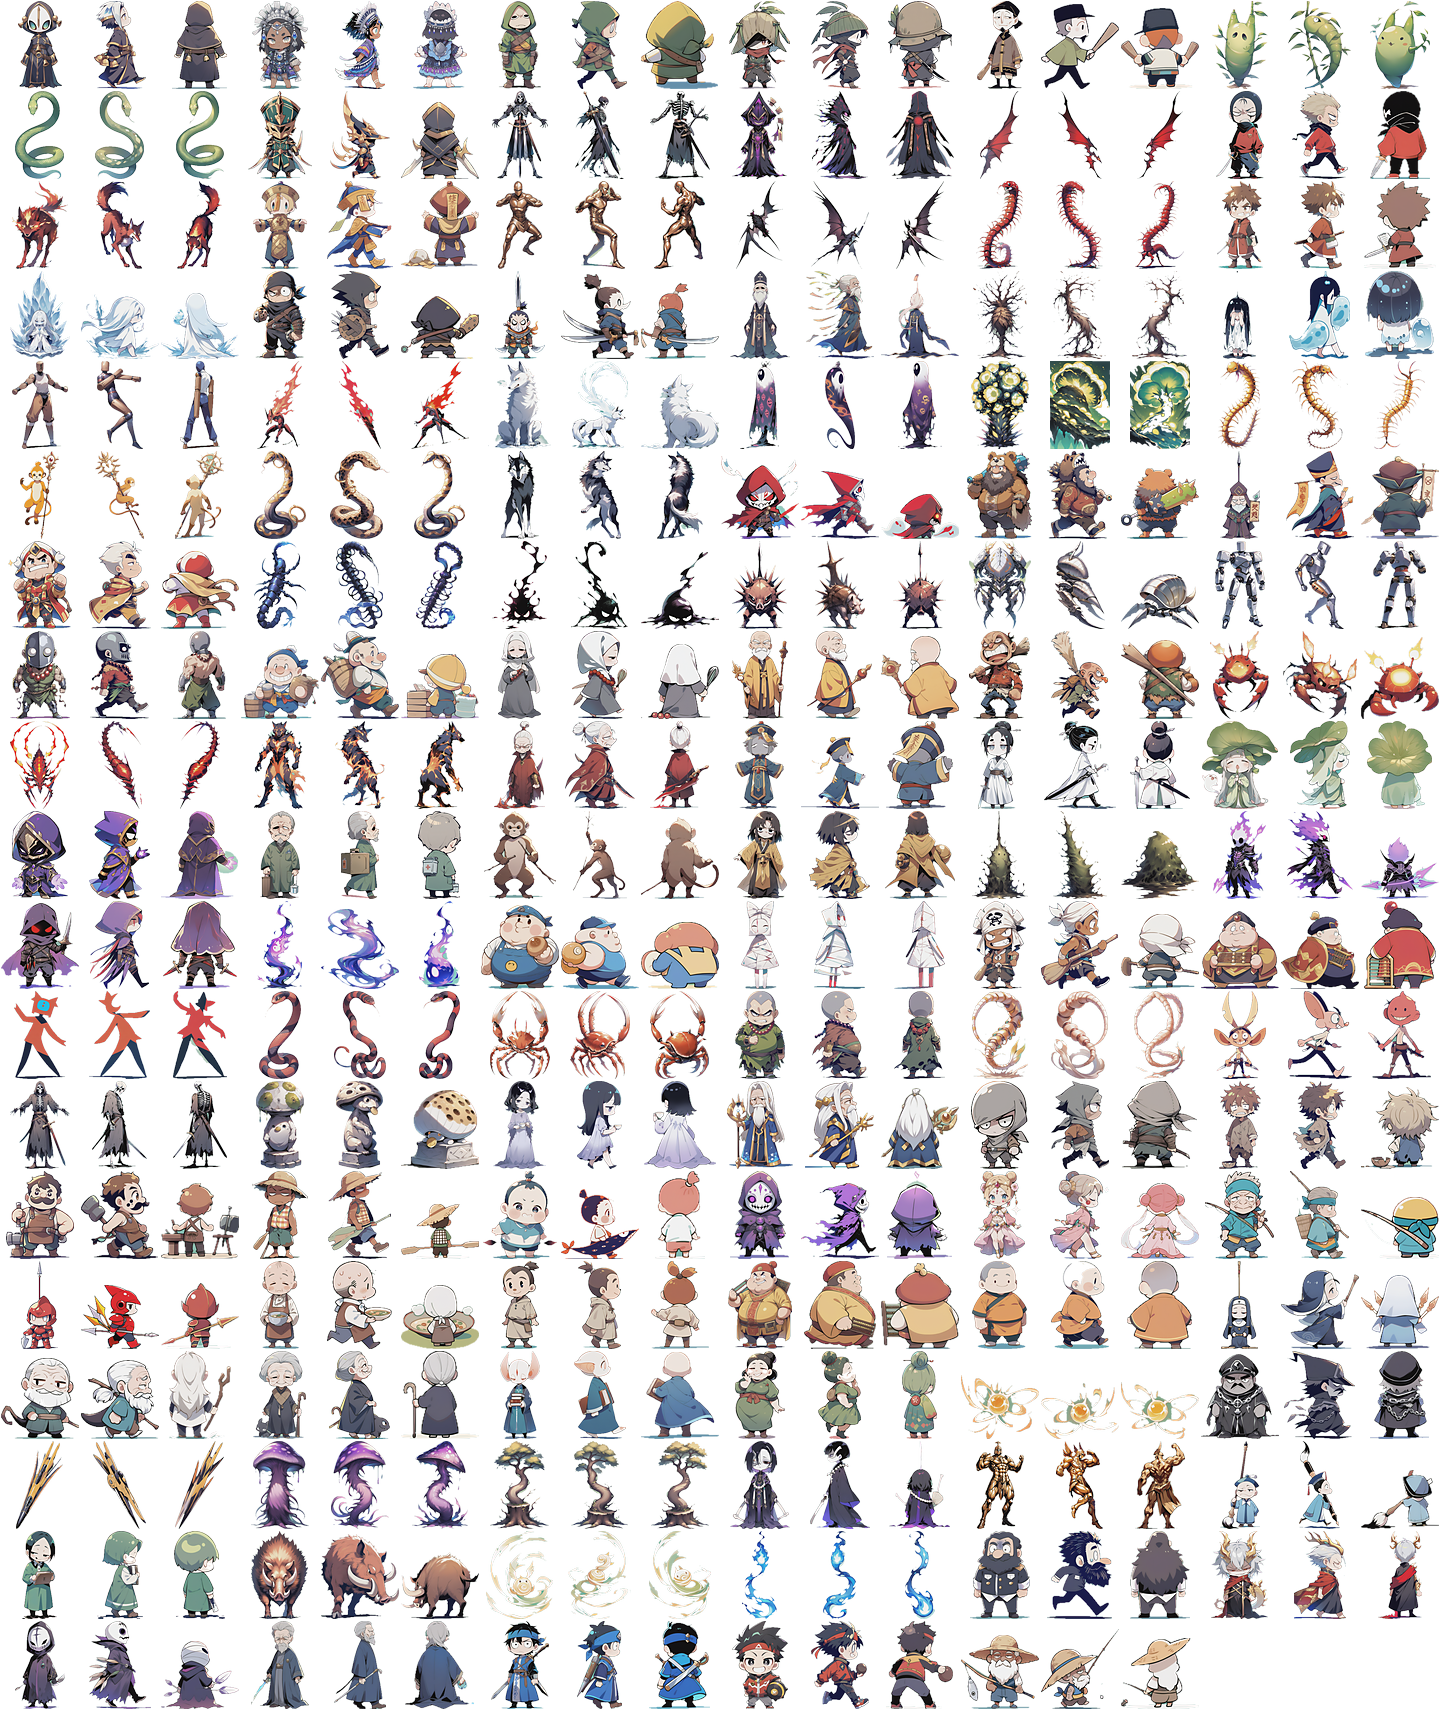
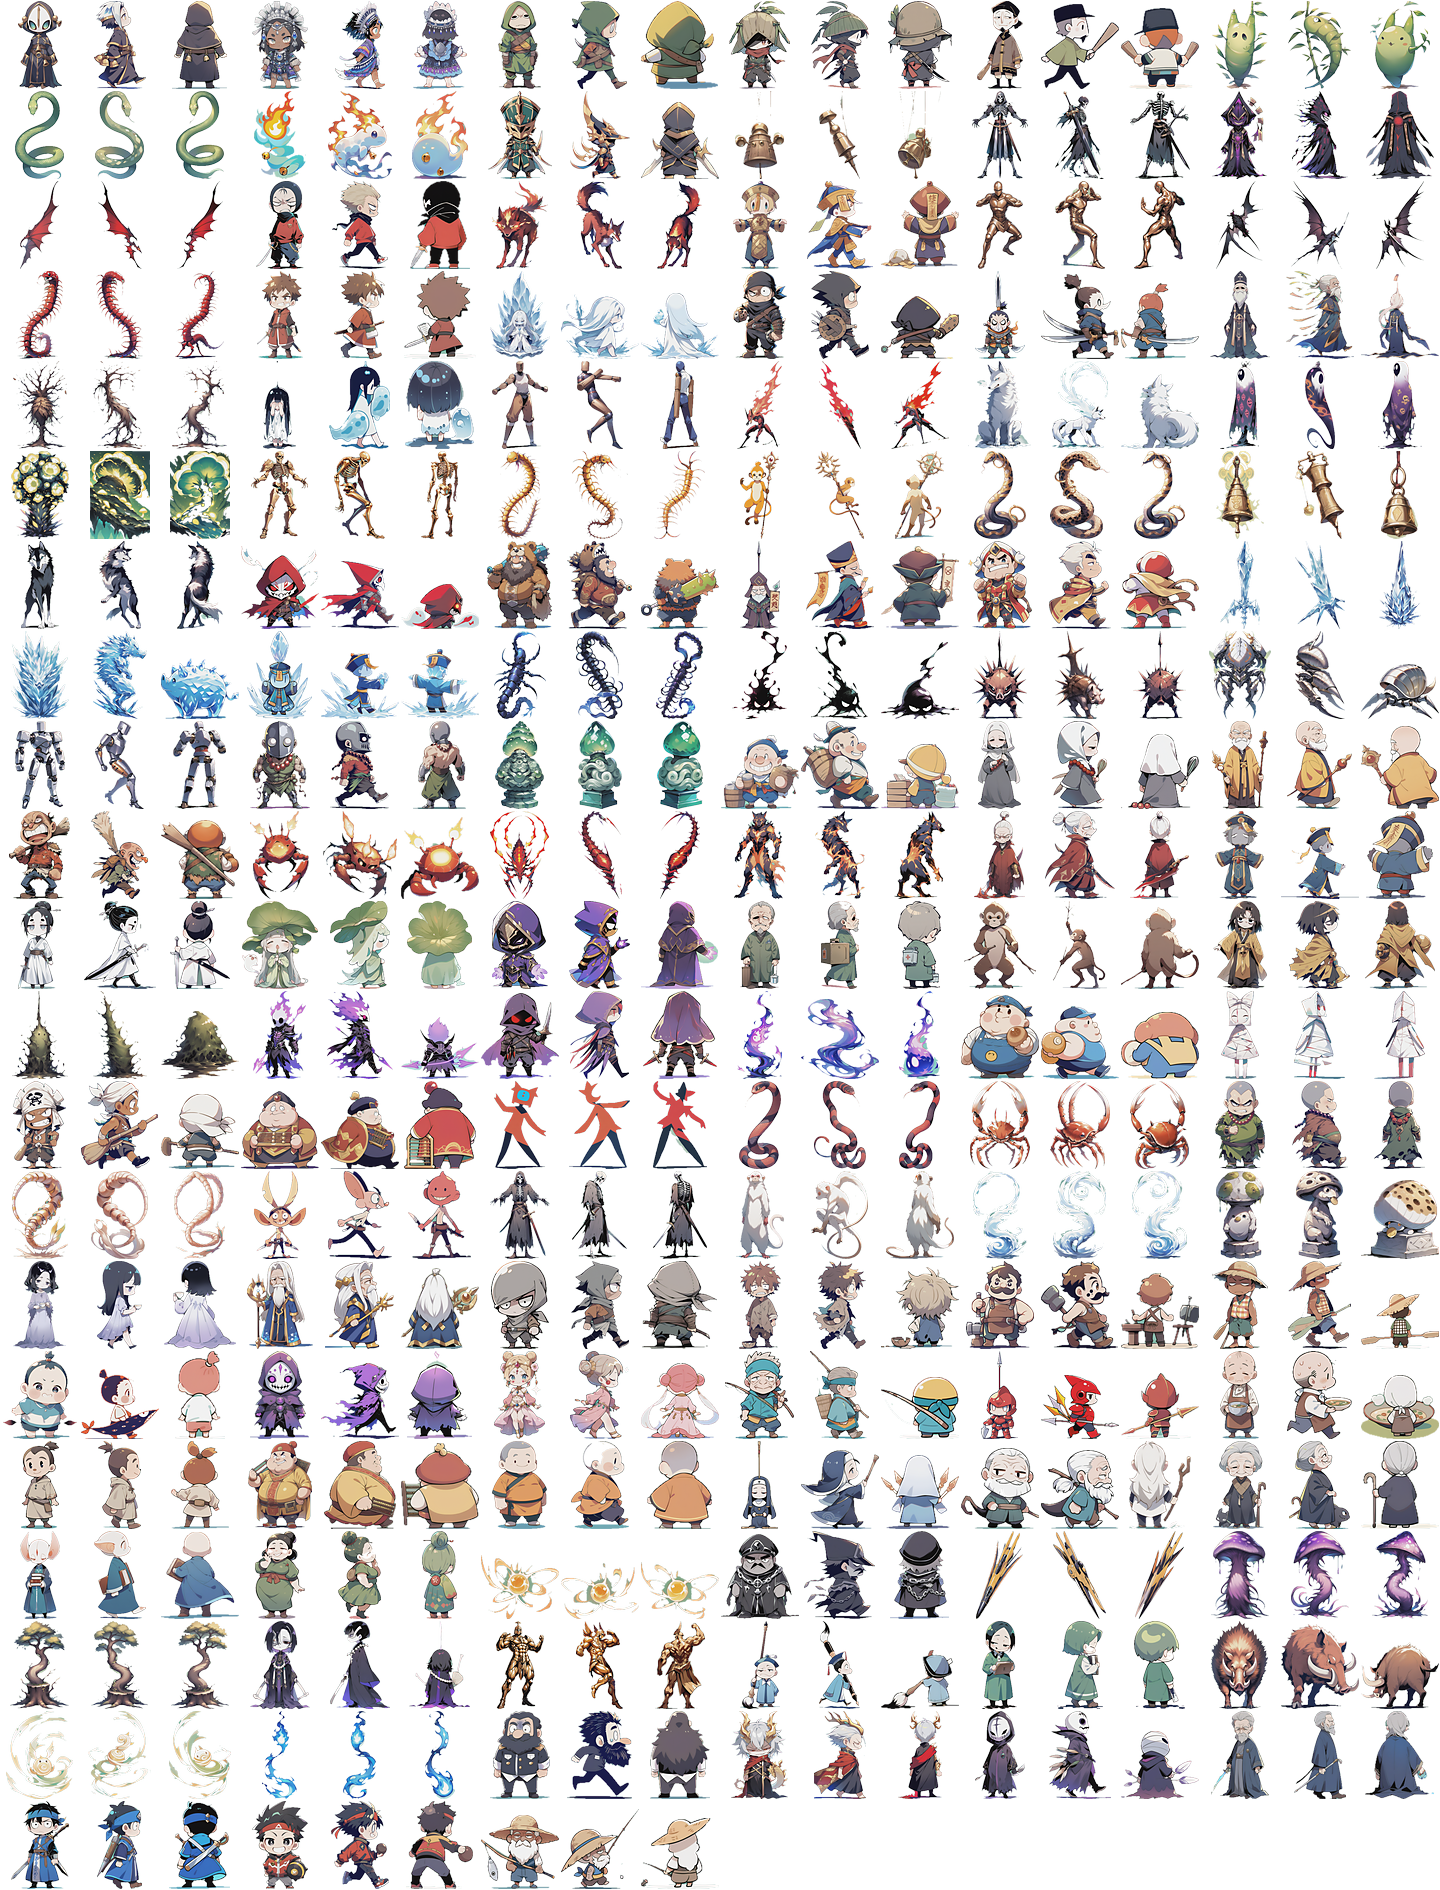
Detailed map sprites: icebat,snowmonkey,snowsprite,iceboar,icejiangshi,bellfire,bellpuppet,goldbone,jadetoad,greatbell

diff --git a/js/ai_art.js b/js/ai_art.js
@@ -1,2 +1,2 @@
 // Made by tools/ai_pack.py from the AI-painted art: rects into assets/ai/. Do not edit by hand.
-export const AI = {"acolyte":{"p":[0,0],"c":[0,0]},"aman":{"p":[128,0],"s":[0,0],"c":[240,0]},"ape":{"p":[256,0]},"archer":{"p":[384,0],"s":[192,0],"c":[480,0]},"assassin":{"p":[512,0],"s":[384,0],"c":[720,0]},"baixian":{"p":[640,0],"c":[960,0]},"bamboosprite":{"p":[768,0],"c":[1200,0]},"bambooviper":{"p":[896,0],"s":[576,0],"c":[0,90]},"bellfire":{"p":[1024,0]},"bellguard":{"p":[1152,0],"c":[240,90]},"bellpuppet":{"p":[1280,0]},"blackbone":{"p":[1408,0],"s":[768,0],"c":[480,90]},"blackdaoist":{"p":[1536,0],"c":[720,90]},"bloodbat":{"p":[0,128],"s":[960,0],"c":[960,90]},"bloodthug":{"p":[128,128],"s":[0,88],"c":[1200,90]},"bloodwolf":{"p":[256,128],"s":[192,88],"c":[0,180]},"bronzejiangshi":{"p":[384,128],"s":[384,88],"c":[240,180]},"bronzeman":{"p":[512,128],"s":[576,88],"c":[480,180]},"cavebat":{"p":[640,128],"s":[768,88],"c":[720,180]},"centipede":{"p":[768,128],"s":[960,88],"c":[960,180]},"chengyuanzhi":{"p":[896,128]},"chutiankuo":{"p":[1024,128],"s":[0,176],"c":[1200,180]},"coldpool":{"p":[1152,128],"s":[192,176],"c":[0,270]},"crow":{"p":[1280,128]},"cudgeler":{"p":[1408,128],"s":[384,176],"c":[240,270]},"daoba":{"p":[1536,128],"s":[576,176],"c":[480,270]},"daoist":{"p":[0,256],"s":[768,176],"c":[720,270]},"deadwood":{"p":[128,256],"s":[960,176],"c":[960,270]},"drowned":{"p":[256,256],"s":[0,264],"c":[1200,270]},"dummy":{"p":[384,256],"c":[0,360]},"erin":{"p":[512,256]},"firehornet":{"p":[640,256],"c":[240,360]},"fox":{"p":[768,256]},"frostwolf":{"p":[896,256],"s":[192,264],"c":[480,360]},"ghosthornet":{"p":[1024,256],"s":[384,264],"c":[720,360]},"glowcap":{"p":[1152,256],"c":[960,360]},"goldbone":{"p":[1280,256]},"goldcentipede":{"p":[1408,256],"s":[576,264],"c":[1200,360]},"goldmonkey":{"p":[1536,256],"s":[768,264],"c":[0,450]},"goldsnake":{"p":[0,384],"c":[240,450]},"greatbell":{"p":[128,384]},"greywolf":{"p":[256,384],"s":[960,264],"c":[480,450]},"guanyu":{"p":[384,384]},"guimian":{"p":[512,384],"s":[0,352],"c":[720,450]},"heixiong":{"p":[640,384],"c":[960,450]},"huaxiong":{"p":[768,384]},"hubanxian":{"p":[896,384],"s":[192,352],"c":[1200,450]},"huotianxia":{"p":[1024,384],"s":[384,352],"c":[0,540]},"icebat":{"p":[1152,384]},"iceboar":{"p":[1280,384]},"icejiangshi":{"p":[1408,384]},"inkscorpion":{"p":[1536,384],"s":[576,352],"c":[240,540]},"inkspirit":{"p":[0,512],"s":[768,352],"c":[480,540]},"ironboar":{"p":[128,512],"s":[960,352],"c":[720,540]},"ironcrab":{"p":[256,512],"c":[960,540]},"irondummy":{"p":[384,512],"c":[1200,540]},"ironmonk":{"p":[512,512],"s":[0,440],"c":[0,630]},"jadetoad":{"p":[640,512]},"jasper":{"p":[768,512]},"jeff":{"p":[896,512]},"jiabafang":{"p":[1024,512],"s":[192,440],"c":[240,630]},"jiangshi":{"p":[1152,512]},"jiao":{"p":[1280,512]},"jiling":{"p":[1408,512]},"jingci":{"p":[1536,512],"c":[480,630]},"josh":{"p":[0,640]},"kuchan":{"p":[128,640],"s":[384,440],"c":[720,630]},"lackey":{"p":[256,640],"s":[576,440],"c":[960,630]},"lavacrab":{"p":[384,640],"c":[1200,630]},"lavascorpion":{"p":[512,640],"c":[0,720]},"lavawolf":{"p":[640,640],"c":[240,720]},"lihanshan":{"p":[768,640],"s":[768,440],"c":[480,720]},"lion":{"p":[896,640]},"littlejiangshi":{"p":[1024,640],"s":[960,440],"c":[720,720]},"liuhanyan":{"p":[1152,640],"c":[960,720]},"lotusghost":{"p":[1280,640],"c":[1200,720]},"lubu":{"p":[1408,640]},"masked":{"p":[1536,640],"s":[0,528],"c":[0,810]},"mojide":{"p":[0,768],"s":[192,528],"c":[240,810]},"mountainmonkey":{"p":[128,768],"s":[384,528],"c":[480,810]},"mowuya":{"p":[256,768],"s":[576,528],"c":[720,810]},"mudspirit":{"p":[384,768],"c":[960,810]},"netherarcher":{"p":[512,768],"s":[768,528],"c":[1200,810]},"netherassassin":{"p":[640,768],"c":[0,900]},"netherflame":{"p":[768,768],"s":[960,528],"c":[240,900]},"niubaobao":{"p":[896,768],"s":[0,616],"c":[480,900]},"papereffigy":{"p":[1024,768],"c":[720,900]},"pirate":{"p":[1152,768],"c":[960,900]},"qianwanli":{"p":[1280,768],"c":[1200,900]},"redpaper":{"p":[1408,768],"c":[0,990]},"redsnake":{"p":[1536,768],"s":[192,616],"c":[240,990]},"rivercrab":{"p":[0,896],"s":[384,616],"c":[480,990]},"roguemonk":{"p":[128,896],"c":[720,990]},"sandscorpion":{"p":[256,896],"s":[576,616],"c":[960,990]},"shanxiao":{"p":[384,896]},"shouhou":{"p":[512,896],"s":[768,616],"c":[1200,990]},"skeleton":{"p":[640,896],"s":[960,616],"c":[0,1080]},"snowmonkey":{"p":[768,896]},"snowsprite":{"p":[896,896]},"stonetoad":{"p":[1024,896],"s":[0,704],"c":[240,1080]},"suxiaowan":{"p":[1152,896],"s":[192,704],"c":[480,1080]},"sx_archer":{"p":[1280,896]},"sx_bl_palm":{"p":[1408,896],"s":[384,704]},"sx_crossbow":{"p":[1536,896],"s":[576,704]},"sx_cy_nun":{"p":[0,1024],"s":[768,704]},"sx_daoist":{"p":[128,1024],"s":[960,704]},"sx_disciple":{"p":[256,1024],"s":[0,792]},"sx_founder":{"p":[384,1024]},"sx_grandmaster":{"p":[512,1024],"c":[720,1080]},"sx_hf_club":{"p":[640,1024]},"sx_hidden":{"p":[768,1024],"s":[192,792]},"sx_hj_sword":{"p":[896,1024]},"sx_inner":{"p":[1024,1024],"s":[384,792]},"sx_lm_saber":{"p":[1152,1024],"s":[576,792]},"sx_master":{"p":[1280,1024],"s":[768,792]},"sx_phantom":{"p":[1408,1024],"s":[960,792]},"sx_physician":{"p":[1536,1024]},"sx_physician_f":{"p":[0,1152]},"sx_poison":{"p":[128,1152],"s":[0,880]},"sx_qf_monk":{"p":[256,1152],"s":[192,880]},"sx_qin":{"p":[384,1152]},"sx_qin_f":{"p":[512,1152],"s":[384,880]},"sx_saber":{"p":[640,1152],"s":[576,880]},"sx_scholar":{"p":[768,1152]},"sx_scout":{"p":[896,1152],"s":[768,880]},"sx_smith":{"p":[1024,1152],"s":[960,880]},"sx_spear":{"p":[1152,1152],"s":[0,968]},"sx_starbow":{"p":[1280,1152],"s":[192,968]},"sx_strategist":{"p":[1408,1152],"s":[384,968]},"sx_sword":{"p":[1536,1152],"s":[576,968]},"sx_swordform":{"p":[0,1280]},"sx_teller":{"p":[128,1280]},"sx_thief":{"p":[256,1280],"s":[768,968]},"sx_xd_blood":{"p":[384,1280],"s":[960,968]},"sx_ym_assassin":{"p":[512,1280],"s":[0,1056]},"sx_yy_tiger":{"p":[640,1280],"s":[192,1056]},"sx_zf_chain":{"p":[768,1280],"s":[384,1056]},"tf_bandit":{"p":[896,1280],"s":[576,1056],"c":[960,1080]},"tf_beggar":{"p":[1024,1280],"s":[768,1056],"c":[1200,1080]},"tf_blacksmith":{"p":[1152,1280],"s":[960,1056],"c":[0,1170]},"tf_boatman":{"p":[1280,1280],"s":[0,1144],"c":[240,1170]},"tf_child":{"p":[1408,1280],"s":[192,1144],"c":[480,1170]},"tf_cultist":{"p":[1536,1280],"s":[384,1144],"c":[720,1170]},"tf_dancer":{"p":[0,1408],"s":[576,1144],"c":[960,1170]},"tf_fisherman":{"p":[128,1408],"s":[768,1144],"c":[1200,1170]},"tf_guard":{"p":[256,1408],"s":[960,1144],"c":[0,1260]},"tf_innkeeper":{"p":[384,1408],"s":[0,1232],"c":[240,1260]},"tf_man":{"p":[512,1408],"c":[480,1260]},"tf_merchant":{"p":[640,1408],"c":[720,1260]},"tf_monk":{"p":[768,1408],"s":[192,1232],"c":[960,1260]},"tf_nun":{"p":[896,1408],"s":[384,1232],"c":[1200,1260]},"tf_oldman":{"p":[1024,1408],"s":[576,1232],"c":[0,1350]},"tf_oldwoman":{"p":[1152,1408],"s":[768,1232],"c":[240,1350]},"tf_scholar":{"p":[1280,1408],"s":[960,1232],"c":[480,1350]},"tf_woman":{"p":[1408,1408],"s":[0,1320],"c":[720,1350]},"thundersprite":{"p":[1536,1408],"s":[192,1320],"c":[960,1350]},"tiewusi":{"p":[0,1536],"s":[384,1320],"c":[1200,1350]},"tiger":{"p":[128,1536]},"tigerhornet":{"p":[256,1536],"c":[0,1440]},"toad":{"p":[384,1536]},"toadstool":{"p":[512,1536],"s":[576,1320],"c":[240,1440]},"treesprite":{"p":[640,1536],"s":[768,1320],"c":[480,1440]},"tuqianqiu":{"p":[768,1536],"s":[960,1320],"c":[720,1440]},"vajraguardian":{"p":[896,1536],"s":[0,1408],"c":[960,1440]},"wenchou":{"p":[1024,1536]},"wenduizhang":{"p":[1152,1536],"c":[1200,1440]},"wenruyu":{"p":[1280,1536],"s":[192,1408],"c":[0,1530]},"wildboar":{"p":[1408,1536],"s":[384,1408],"c":[240,1530]},"windsprite":{"p":[1536,1536],"s":[576,1408],"c":[480,1530]},"wisp":{"p":[0,1664],"s":[768,1408],"c":[720,1530]},"wudadan":{"p":[128,1664],"c":[960,1530]},"xiahoudun":{"p":[256,1664]},"xiaolian":{"p":[384,1664]},"xiaotian":{"p":[512,1664],"s":[960,1408],"c":[1200,1530]},"xiaowuying":{"p":[640,1664],"s":[0,1496],"c":[0,1620]},"yanliang":{"p":[768,1664]},"yichangfeng":{"p":[896,1664],"c":[240,1620]},"yirui":{"p":[1024,1664],"s":[192,1496],"c":[480,1620]},"yishuo":{"p":[1152,1664],"s":[384,1496],"c":[720,1620]},"yuweng":{"p":[1280,1664],"c":[960,1620]},"zhangbao":{"p":[1408,1664]},"zhangliao":{"p":[1536,1664]}};
+export const AI = {"acolyte":{"p":[0,0],"c":[0,0]},"aman":{"p":[128,0],"s":[0,0],"c":[240,0]},"ape":{"p":[256,0]},"archer":{"p":[384,0],"s":[192,0],"c":[480,0]},"assassin":{"p":[512,0],"s":[384,0],"c":[720,0]},"baixian":{"p":[640,0],"c":[960,0]},"bamboosprite":{"p":[768,0],"c":[1200,0]},"bambooviper":{"p":[896,0],"s":[576,0],"c":[0,90]},"bellfire":{"p":[1024,0],"c":[240,90]},"bellguard":{"p":[1152,0],"c":[480,90]},"bellpuppet":{"p":[1280,0],"c":[720,90]},"blackbone":{"p":[1408,0],"s":[768,0],"c":[960,90]},"blackdaoist":{"p":[1536,0],"c":[1200,90]},"bloodbat":{"p":[0,128],"s":[960,0],"c":[0,180]},"bloodthug":{"p":[128,128],"s":[0,88],"c":[240,180]},"bloodwolf":{"p":[256,128],"s":[192,88],"c":[480,180]},"bronzejiangshi":{"p":[384,128],"s":[384,88],"c":[720,180]},"bronzeman":{"p":[512,128],"s":[576,88],"c":[960,180]},"cavebat":{"p":[640,128],"s":[768,88],"c":[1200,180]},"centipede":{"p":[768,128],"s":[960,88],"c":[0,270]},"chengyuanzhi":{"p":[896,128]},"chutiankuo":{"p":[1024,128],"s":[0,176],"c":[240,270]},"coldpool":{"p":[1152,128],"s":[192,176],"c":[480,270]},"crow":{"p":[1280,128]},"cudgeler":{"p":[1408,128],"s":[384,176],"c":[720,270]},"daoba":{"p":[1536,128],"s":[576,176],"c":[960,270]},"daoist":{"p":[0,256],"s":[768,176],"c":[1200,270]},"deadwood":{"p":[128,256],"s":[960,176],"c":[0,360]},"drowned":{"p":[256,256],"s":[0,264],"c":[240,360]},"dummy":{"p":[384,256],"c":[480,360]},"erin":{"p":[512,256]},"firehornet":{"p":[640,256],"c":[720,360]},"fox":{"p":[768,256]},"frostwolf":{"p":[896,256],"s":[192,264],"c":[960,360]},"ghosthornet":{"p":[1024,256],"s":[384,264],"c":[1200,360]},"glowcap":{"p":[1152,256],"c":[0,450]},"goldbone":{"p":[1280,256],"c":[240,450]},"goldcentipede":{"p":[1408,256],"s":[576,264],"c":[480,450]},"goldmonkey":{"p":[1536,256],"s":[768,264],"c":[720,450]},"goldsnake":{"p":[0,384],"c":[960,450]},"greatbell":{"p":[128,384],"c":[1200,450]},"greywolf":{"p":[256,384],"s":[960,264],"c":[0,540]},"guanyu":{"p":[384,384]},"guimian":{"p":[512,384],"s":[0,352],"c":[240,540]},"heixiong":{"p":[640,384],"c":[480,540]},"huaxiong":{"p":[768,384]},"hubanxian":{"p":[896,384],"s":[192,352],"c":[720,540]},"huotianxia":{"p":[1024,384],"s":[384,352],"c":[960,540]},"icebat":{"p":[1152,384],"c":[1200,540]},"iceboar":{"p":[1280,384],"c":[0,630]},"icejiangshi":{"p":[1408,384],"c":[240,630]},"inkscorpion":{"p":[1536,384],"s":[576,352],"c":[480,630]},"inkspirit":{"p":[0,512],"s":[768,352],"c":[720,630]},"ironboar":{"p":[128,512],"s":[960,352],"c":[960,630]},"ironcrab":{"p":[256,512],"c":[1200,630]},"irondummy":{"p":[384,512],"c":[0,720]},"ironmonk":{"p":[512,512],"s":[0,440],"c":[240,720]},"jadetoad":{"p":[640,512],"c":[480,720]},"jasper":{"p":[768,512]},"jeff":{"p":[896,512]},"jiabafang":{"p":[1024,512],"s":[192,440],"c":[720,720]},"jiangshi":{"p":[1152,512]},"jiao":{"p":[1280,512]},"jiling":{"p":[1408,512]},"jingci":{"p":[1536,512],"c":[960,720]},"josh":{"p":[0,640]},"kuchan":{"p":[128,640],"s":[384,440],"c":[1200,720]},"lackey":{"p":[256,640],"s":[576,440],"c":[0,810]},"lavacrab":{"p":[384,640],"c":[240,810]},"lavascorpion":{"p":[512,640],"c":[480,810]},"lavawolf":{"p":[640,640],"c":[720,810]},"lihanshan":{"p":[768,640],"s":[768,440],"c":[960,810]},"lion":{"p":[896,640]},"littlejiangshi":{"p":[1024,640],"s":[960,440],"c":[1200,810]},"liuhanyan":{"p":[1152,640],"c":[0,900]},"lotusghost":{"p":[1280,640],"c":[240,900]},"lubu":{"p":[1408,640]},"masked":{"p":[1536,640],"s":[0,528],"c":[480,900]},"mojide":{"p":[0,768],"s":[192,528],"c":[720,900]},"mountainmonkey":{"p":[128,768],"s":[384,528],"c":[960,900]},"mowuya":{"p":[256,768],"s":[576,528],"c":[1200,900]},"mudspirit":{"p":[384,768],"c":[0,990]},"netherarcher":{"p":[512,768],"s":[768,528],"c":[240,990]},"netherassassin":{"p":[640,768],"c":[480,990]},"netherflame":{"p":[768,768],"s":[960,528],"c":[720,990]},"niubaobao":{"p":[896,768],"s":[0,616],"c":[960,990]},"papereffigy":{"p":[1024,768],"c":[1200,990]},"pirate":{"p":[1152,768],"c":[0,1080]},"qianwanli":{"p":[1280,768],"c":[240,1080]},"redpaper":{"p":[1408,768],"c":[480,1080]},"redsnake":{"p":[1536,768],"s":[192,616],"c":[720,1080]},"rivercrab":{"p":[0,896],"s":[384,616],"c":[960,1080]},"roguemonk":{"p":[128,896],"c":[1200,1080]},"sandscorpion":{"p":[256,896],"s":[576,616],"c":[0,1170]},"shanxiao":{"p":[384,896]},"shouhou":{"p":[512,896],"s":[768,616],"c":[240,1170]},"skeleton":{"p":[640,896],"s":[960,616],"c":[480,1170]},"snowmonkey":{"p":[768,896],"c":[720,1170]},"snowsprite":{"p":[896,896],"c":[960,1170]},"stonetoad":{"p":[1024,896],"s":[0,704],"c":[1200,1170]},"suxiaowan":{"p":[1152,896],"s":[192,704],"c":[0,1260]},"sx_archer":{"p":[1280,896]},"sx_bl_palm":{"p":[1408,896],"s":[384,704]},"sx_crossbow":{"p":[1536,896],"s":[576,704]},"sx_cy_nun":{"p":[0,1024],"s":[768,704]},"sx_daoist":{"p":[128,1024],"s":[960,704]},"sx_disciple":{"p":[256,1024],"s":[0,792]},"sx_founder":{"p":[384,1024]},"sx_grandmaster":{"p":[512,1024],"c":[240,1260]},"sx_hf_club":{"p":[640,1024]},"sx_hidden":{"p":[768,1024],"s":[192,792]},"sx_hj_sword":{"p":[896,1024]},"sx_inner":{"p":[1024,1024],"s":[384,792]},"sx_lm_saber":{"p":[1152,1024],"s":[576,792]},"sx_master":{"p":[1280,1024],"s":[768,792]},"sx_phantom":{"p":[1408,1024],"s":[960,792]},"sx_physician":{"p":[1536,1024]},"sx_physician_f":{"p":[0,1152]},"sx_poison":{"p":[128,1152],"s":[0,880]},"sx_qf_monk":{"p":[256,1152],"s":[192,880]},"sx_qin":{"p":[384,1152]},"sx_qin_f":{"p":[512,1152],"s":[384,880]},"sx_saber":{"p":[640,1152],"s":[576,880]},"sx_scholar":{"p":[768,1152]},"sx_scout":{"p":[896,1152],"s":[768,880]},"sx_smith":{"p":[1024,1152],"s":[960,880]},"sx_spear":{"p":[1152,1152],"s":[0,968]},"sx_starbow":{"p":[1280,1152],"s":[192,968]},"sx_strategist":{"p":[1408,1152],"s":[384,968]},"sx_sword":{"p":[1536,1152],"s":[576,968]},"sx_swordform":{"p":[0,1280]},"sx_teller":{"p":[128,1280]},"sx_thief":{"p":[256,1280],"s":[768,968]},"sx_xd_blood":{"p":[384,1280],"s":[960,968]},"sx_ym_assassin":{"p":[512,1280],"s":[0,1056]},"sx_yy_tiger":{"p":[640,1280],"s":[192,1056]},"sx_zf_chain":{"p":[768,1280],"s":[384,1056]},"tf_bandit":{"p":[896,1280],"s":[576,1056],"c":[480,1260]},"tf_beggar":{"p":[1024,1280],"s":[768,1056],"c":[720,1260]},"tf_blacksmith":{"p":[1152,1280],"s":[960,1056],"c":[960,1260]},"tf_boatman":{"p":[1280,1280],"s":[0,1144],"c":[1200,1260]},"tf_child":{"p":[1408,1280],"s":[192,1144],"c":[0,1350]},"tf_cultist":{"p":[1536,1280],"s":[384,1144],"c":[240,1350]},"tf_dancer":{"p":[0,1408],"s":[576,1144],"c":[480,1350]},"tf_fisherman":{"p":[128,1408],"s":[768,1144],"c":[720,1350]},"tf_guard":{"p":[256,1408],"s":[960,1144],"c":[960,1350]},"tf_innkeeper":{"p":[384,1408],"s":[0,1232],"c":[1200,1350]},"tf_man":{"p":[512,1408],"c":[0,1440]},"tf_merchant":{"p":[640,1408],"c":[240,1440]},"tf_monk":{"p":[768,1408],"s":[192,1232],"c":[480,1440]},"tf_nun":{"p":[896,1408],"s":[384,1232],"c":[720,1440]},"tf_oldman":{"p":[1024,1408],"s":[576,1232],"c":[960,1440]},"tf_oldwoman":{"p":[1152,1408],"s":[768,1232],"c":[1200,1440]},"tf_scholar":{"p":[1280,1408],"s":[960,1232],"c":[0,1530]},"tf_woman":{"p":[1408,1408],"s":[0,1320],"c":[240,1530]},"thundersprite":{"p":[1536,1408],"s":[192,1320],"c":[480,1530]},"tiewusi":{"p":[0,1536],"s":[384,1320],"c":[720,1530]},"tiger":{"p":[128,1536]},"tigerhornet":{"p":[256,1536],"c":[960,1530]},"toad":{"p":[384,1536]},"toadstool":{"p":[512,1536],"s":[576,1320],"c":[1200,1530]},"treesprite":{"p":[640,1536],"s":[768,1320],"c":[0,1620]},"tuqianqiu":{"p":[768,1536],"s":[960,1320],"c":[240,1620]},"vajraguardian":{"p":[896,1536],"s":[0,1408],"c":[480,1620]},"wenchou":{"p":[1024,1536]},"wenduizhang":{"p":[1152,1536],"c":[720,1620]},"wenruyu":{"p":[1280,1536],"s":[192,1408],"c":[960,1620]},"wildboar":{"p":[1408,1536],"s":[384,1408],"c":[1200,1620]},"windsprite":{"p":[1536,1536],"s":[576,1408],"c":[0,1710]},"wisp":{"p":[0,1664],"s":[768,1408],"c":[240,1710]},"wudadan":{"p":[128,1664],"c":[480,1710]},"xiahoudun":{"p":[256,1664]},"xiaolian":{"p":[384,1664]},"xiaotian":{"p":[512,1664],"s":[960,1408],"c":[720,1710]},"xiaowuying":{"p":[640,1664],"s":[0,1496],"c":[960,1710]},"yanliang":{"p":[768,1664]},"yichangfeng":{"p":[896,1664],"c":[1200,1710]},"yirui":{"p":[1024,1664],"s":[192,1496],"c":[0,1800]},"yishuo":{"p":[1152,1664],"s":[384,1496],"c":[240,1800]},"yuweng":{"p":[1280,1664],"c":[480,1800]},"zhangbao":{"p":[1408,1664]},"zhangliao":{"p":[1536,1664]}};
